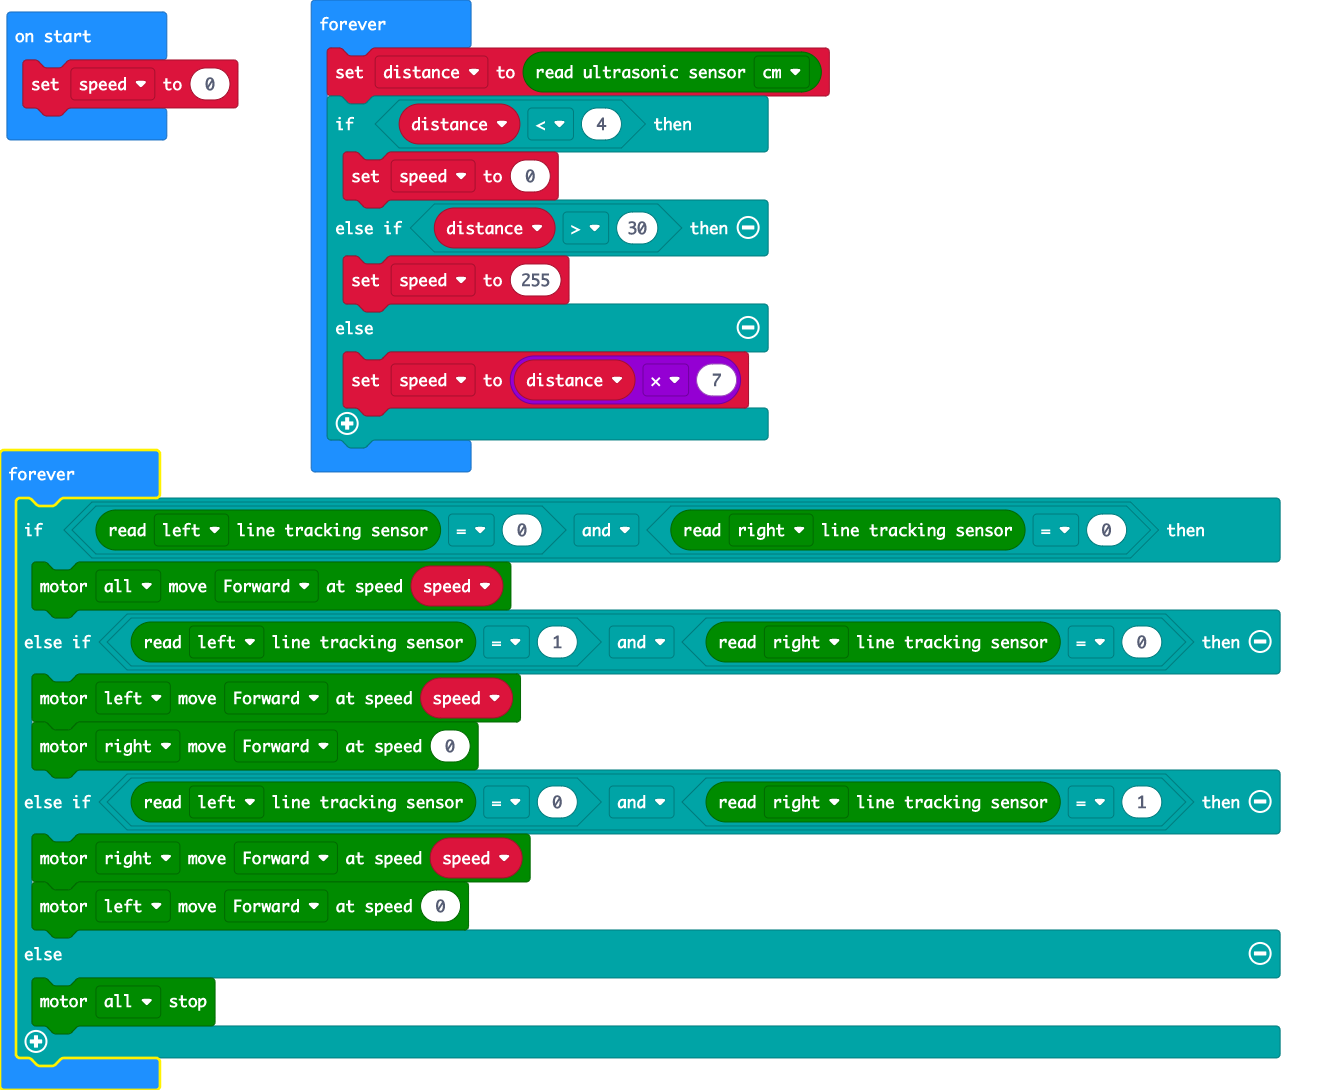
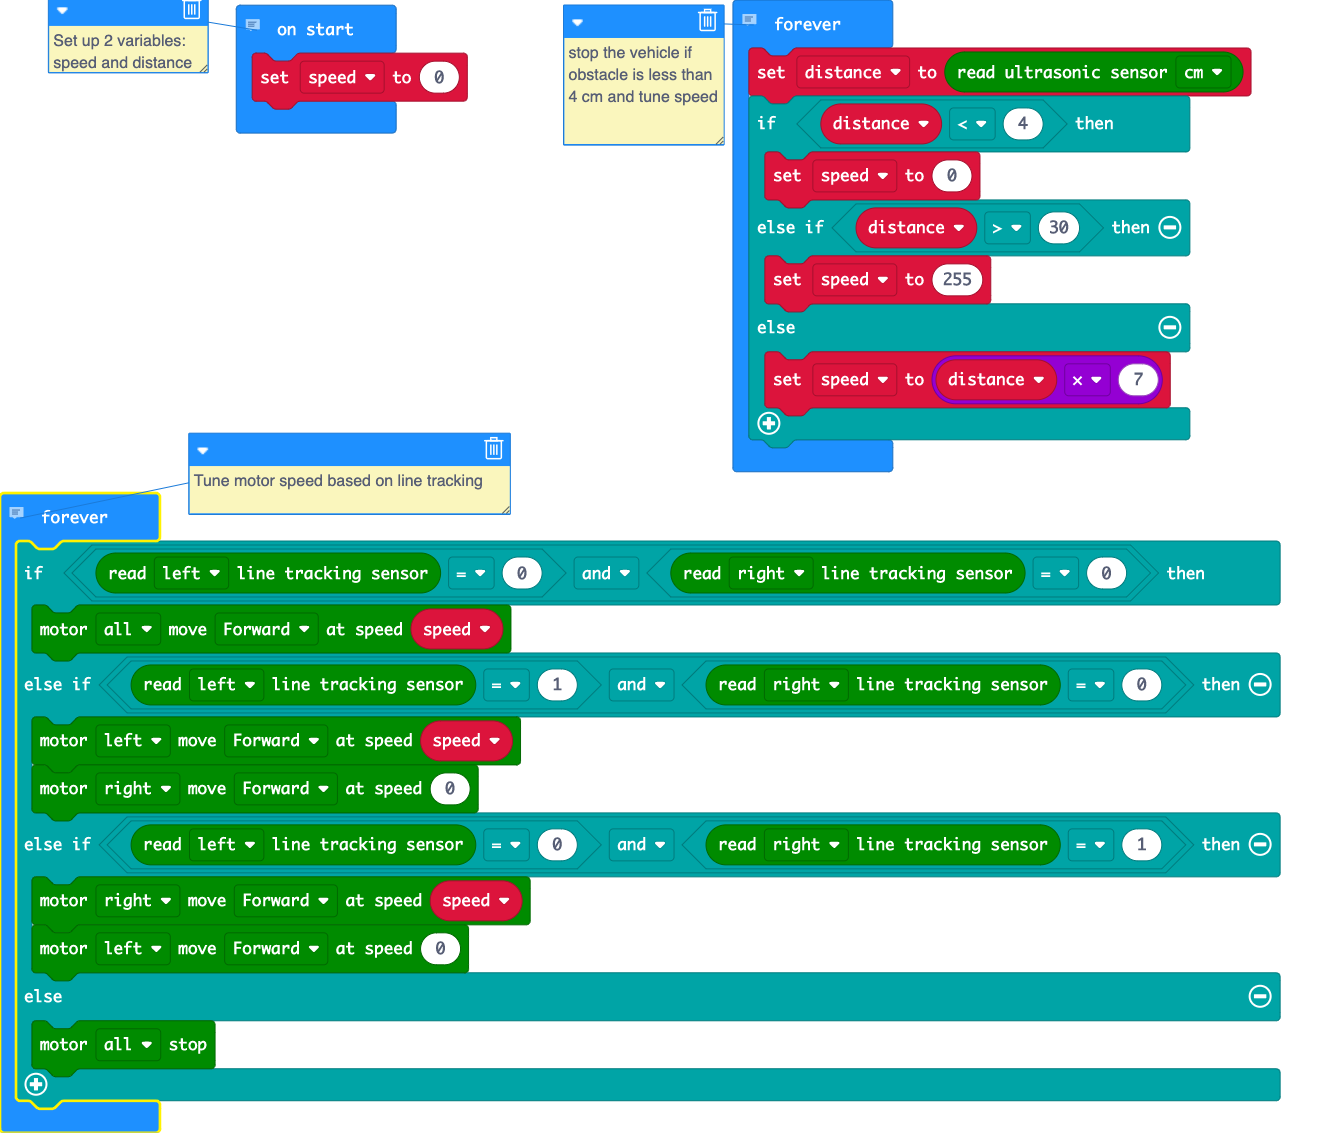
added comment on blocks

diff --git a/main.ts b/main.ts
@@ -1,5 +1,7 @@
+// Set up 2 variables: speed and distance
 let distance = 0
 let speed = 0
+// stop the vehicle if obstacle is less than 4 cm and tune speed
 basic.forever(function () {
     distance = maqueen.Ultrasonic(PingUnit.Centimeters)
     if (distance < 4) {
@@ -10,6 +12,7 @@ basic.forever(function () {
         speed = distance * 7
     }
 })
+// Tune motor speed based on line tracking
 basic.forever(function () {
     if (maqueen.readPatrol(maqueen.Patrol.PatrolLeft) == 0 && maqueen.readPatrol(maqueen.Patrol.PatrolRight) == 0) {
         maqueen.motorRun(maqueen.Motors.All, maqueen.Dir.CW, speed)
